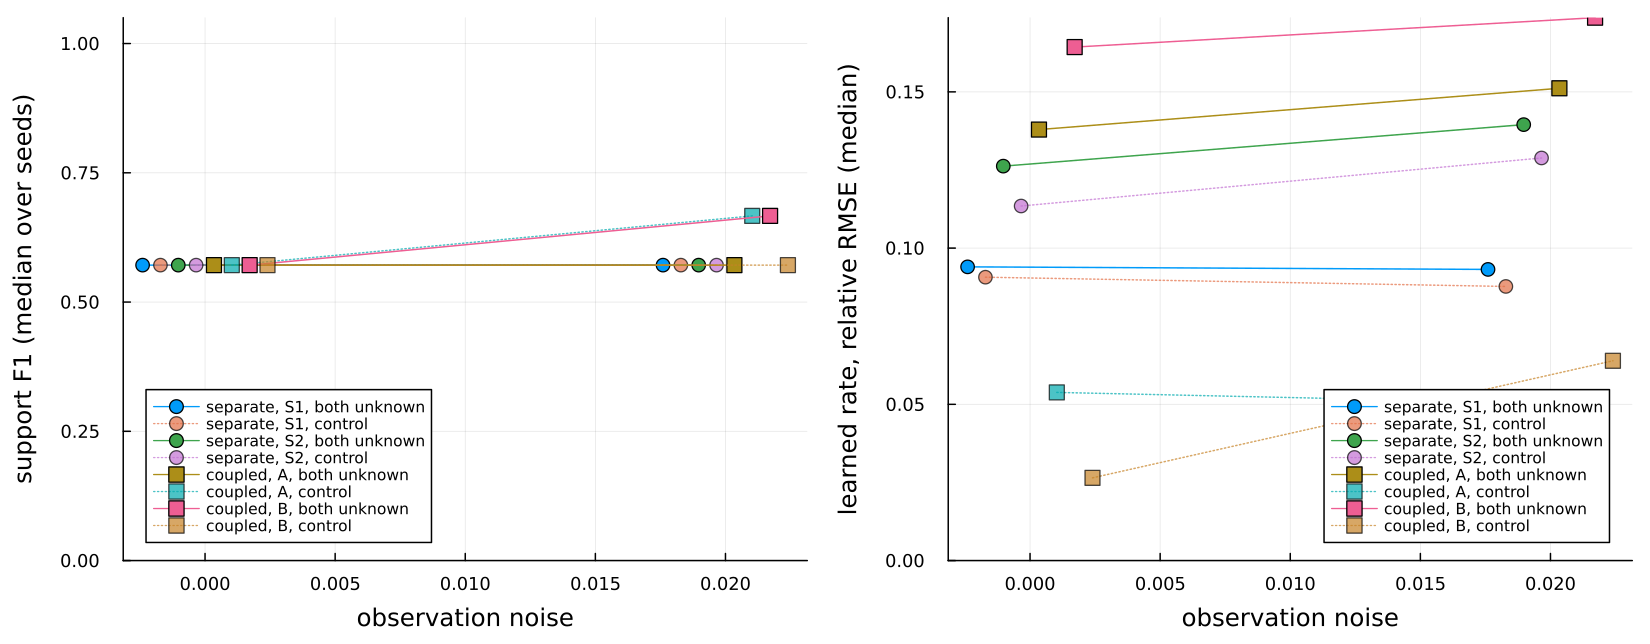
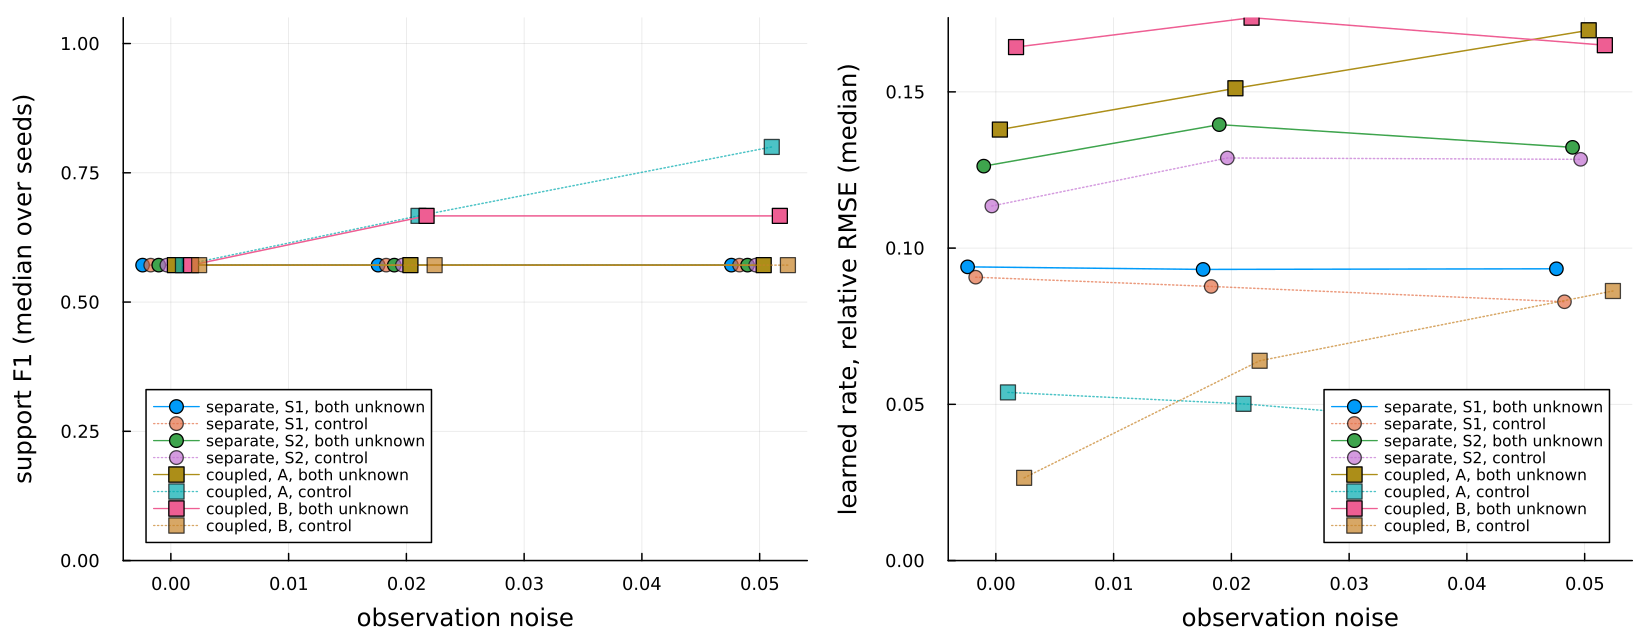
Release 0.16.0: multiple unknown terms
Three-term study rows at noise 0.0, the cross-term threshold set to 0.46
from all 35 multi-unknown runs, version 0.16.0 in Project.toml, the module,
CITATION.cff, README and the changelog, compat entries for the test extras,
and the pre-code analysis moved from dev/ into the review notes.

Claude-Session: https://claude.ai/code/session_01FzTPQ5c3VVUiqX5fWt3oAg

diff --git a/docs/src/benchmarks.md b/docs/src/benchmarks.md
@@ -610,20 +610,64 @@ case (the term whose input is the other unknown node degrades first), minus
 the opposite-sign compensation it also allowed for, which did not occur at
 any noise level.
 
-**Threshold.** The cross-term values clustered by structure with nothing in
+The two-term cross-term values clustered by structure with nothing in
 between: 0.371 to 0.425 for the separate fixture, 0.954 to 0.964 for the
-coupled one, at every noise level. `CROSS_TERM_COLLINEARITY_THRESHOLD` is
-0.69, the midpoint of that gap. Above it, every cell had a learned rate 1.9
-to 6.3 times further from the truth than its control; below it, none was
-more than 1.15 times. Within the coupled cluster the value did not
-distinguish seeds or noise levels (all within 0.01 of each other), so it
-says which structure you have, not how far a particular run drifted. A
+coupled one, at every noise level. Within the coupled cluster the value did
+not distinguish seeds or noise levels (all within 0.01 of each other), so
+it says which structure you have, not how far a particular run drifted. A
 split on the per-run rate degradation alone (learned-rate error above twice
 the control's) does not separate the two clusters, because single runs of
 the separate fixture also cross that ratio; the diagnostic is a structural
-warning, not a per-run error estimate.
+warning, not a per-run error estimate. The threshold itself is set after
+the three-term fixture below, whose values fall inside that gap.
 
-<!-- STUDY RESULTS THREE -->
+### Three terms, noise 0.0
+
+The three-term fixture ran at noise 0.0 only (five seeds, the three-unknown
+run and its three single-unknown controls, 60 rows); its noise 0.02 and
+0.05 cells were dropped when the study reached its four-hour budget, as the
+milestone's plan says to drop first. Without stability selection; with it
+the table is identical.
+
+| fixture | unknown | noise | term | runs | F1 median [IQR] | rate RMSE median | bias median | held-out residual | cross-term median | training s |
+|---|---|---|---|---|---|---|---|---|---|---|
+| three | R1 | 0.0 | R1 | 5/5 | 0.571 [0.571, 0.571] | 0.053 | 0.105 | 0.004 | NA | 232 |
+| three | S1 | 0.0 | S1 | 5/5 | 0.571 [0.571, 0.571] | 0.098 | 0.244 | 0.002 | NA | 229 |
+| three | S1+R1+S2 | 0.0 | R1 | 5/5 | 0.571 [0.571, 0.571] | 0.119 | 0.241 | 0.008 | 0.547 | 358 |
+| three | S1+R1+S2 | 0.0 | S1 | 5/5 | 0.571 [0.571, 0.571] | 0.14 | 0.396 | 0.008 | 0.547 | 358 |
+| three | S1+R1+S2 | 0.0 | S2 | 5/5 | 0.571 [0.333, 0.571] | 0.093 | 0.086 | 0.008 | 0.547 | 358 |
+| three | S2 | 0.0 | S2 | 5/5 | 0.571 [0.571, 0.571] | 0.075 | 0.062 | 0.004 | NA | 228 |
+
+Three terms cost more than two, and in a different way from the coupled
+two-term fixture. No run showed opposite-sign compensation: every learned
+rate is biased in the same direction as its control. But the adjacent pair
+`S1`, `R1` (the decay of `R1` is a Hill term in `S1`, the degradation of
+`S1` a Hill term in `R1`) is biased further high than the controls in every
+run (`S1` median bias 0.396 against 0.244, `R1` 0.241 against 0.105), with
+learned-rate errors 1.4 times (`S1`, 0.140 against 0.098) and 2.2 times
+(`R1`, 0.119 against 0.053) the controls'; the third term `S2`, on the
+separate branch, keeps its rate error at the control's level (0.093 against
+0.075) but loses its support in two of five seeds (F1 0 and 0.333, against
+0.571 in all five controls). The held-out residual is 0.008 against 0.002
+to 0.004 for the controls. Training takes 358 s against 228 to 233 s, 1.6
+times. Per pair, the cross-term collinearity is 0.40 to 0.61 for `S1`–`R1`,
+0.50 to 0.55 for `R1`–`S2` (`R1` produces `S2`), and 0.08 to 0.21 for
+`S1`–`S2`; the largest pair of each run is 0.498 to 0.610.
+
+**Threshold.** Over the 35 multi-unknown runs of the study, every run with
+no measurable cost of the extra term (the 15 runs of the separate fixture)
+had all its pairs at or below 0.425, and every run with a measurable cost
+(the 15 coupled runs and the 5 three-term runs) had at least one pair at or
+above 0.498. `CROSS_TERM_COLLINEARITY_THRESHOLD` is 0.46, the midpoint of
+that gap, so the warning fires on every run in which the study measured a
+cost and on none in which it did not. The size of the cost grows with the
+value (about 1.1 times the control's rate error at 0.4, 1.4 to 2.2 times at
+0.5 to 0.6, 2 to 6 times at 0.96), but five seeds and three fixtures are
+too few to read the value as an error estimate; treat it as a warning that
+the discovered coefficients of that pair need another look. Before the
+three-term rows came in, the two-term fixtures alone would have put the
+threshold at 0.69, the midpoint of their gap; the three-term fixture showed
+a measurable cost below that, which is why the lower value is used.
 
 ## Report fields
 

diff --git a/CHANGELOG.md b/CHANGELOG.md
@@ -10,6 +10,8 @@ and this project adheres to [Semantic Versioning](https://semver.org/spec/v2.0.0
 
 ## [Unreleased]
 
+## [0.16.0] - 2026-09-12
+
 ### Changed (breaking)
 
 - `discover_unknown_term` and `report_unknown_term` are replaced by
@@ -39,7 +41,8 @@ and this project adheres to [Semantic Versioning](https://semver.org/spec/v2.0.0
 - `cross_term_collinearity`, the pairwise cross-term diagnostic: the cosine
   between the trajectory sensitivities to a scale change of each term,
   reported per pair in the result and the report, with a warning above
-  `CROSS_TERM_COLLINEARITY_THRESHOLD`.
+  `CROSS_TERM_COLLINEARITY_THRESHOLD` (0.46, the value below which no run
+  of the study showed a measurable cost of the extra term).
 - Guard rails: two unknown terms on the same node and an unknown production
   term are errors that name the node and the milestone scope.
 - `network_from_reactionsystem(rs; unknown = [...])` marks several reactions
@@ -47,7 +50,13 @@ and this project adheres to [Semantic Versioning](https://semver.org/spec/v2.0.0
 - The multi-term study (`benchmark/multi_term_study.jl`) with the fixtures
   `build_two_term_separate_network`, `build_two_term_coupled_network` and
   `build_three_term_network`, resumable rows in
-  `benchmark/results/multi_term_study.csv`.
+  `benchmark/results/multi_term_study.csv`. Its finding, on the benchmarks
+  page: in 30 two-unknown runs the two terms never compensated for each
+  other; on non-adjacent nodes the second term costs nothing measurable, on
+  adjacent nodes the downstream term's learned rate comes out about 16% low
+  and the cross-term diagnostic flags the case; three terms (noise 0 only)
+  cost more, with the adjacent pair 1.4 and 2.2 times further from the
+  truth and the third term's support lost in two of five seeds.
 
 ## [0.15.0] - 2026-09-08
 
@@ -573,7 +582,8 @@ thresholds, seeds, protocol settings, library construction) is unchanged.
 - `predict_ude` routes through `SciMLBase.ODEProblem` for both AD policies.
 - `RunMetadata` defaults to `BioDynaX.PACKAGE_VERSION`.
 
-[Unreleased]: https://github.com/utkuyilmaz1903/HybridKinetics.jl/compare/v0.15.0...HEAD
+[Unreleased]: https://github.com/utkuyilmaz1903/HybridKinetics.jl/compare/v0.16.0...HEAD
+[0.16.0]: https://github.com/utkuyilmaz1903/HybridKinetics.jl/compare/v0.15.0...v0.16.0
 [0.15.0]: https://github.com/utkuyilmaz1903/HybridKinetics.jl/compare/v0.14.0...v0.15.0
 [0.14.0]: https://github.com/utkuyilmaz1903/BioDynaX.jl/compare/v0.13.0...v0.14.0
 [0.13.0]: https://github.com/utkuyilmaz1903/BioDynaX.jl/compare/v0.12.0...v0.13.0

diff --git a/docs/src/limitations.md b/docs/src/limitations.md
@@ -113,12 +113,17 @@ destruction term. This page collects every caveat in one place.
   15 to 30% low in every run (median 16%), two to six times the single-term
   error, and the noise-free held-out residual doubles. The cross-term
   diagnostic separates the two cases (0.37–0.43 against 0.95–0.96) and warns above
-  `CROSS_TERM_COLLINEARITY_THRESHOLD` = 0.69; it is local to the fit,
+  `CROSS_TERM_COLLINEARITY_THRESHOLD` = 0.46, the value below which no run
+  of the study showed a measurable cost; it is local to the fit,
   concerns the scales only, does not say which of the two terms drifted,
   and is not a structural result.
 - The number of terms is not limited by the code. Two terms were measured
-  in full; the three-term fixture ran on what remained of the study budget
-  (see the benchmarks page for exactly which cells). Beyond that the
+  in full; the three-term fixture ran at noise 0.0 only (its noisy cells
+  were dropped at the study's budget). There, the adjacent pair came out
+  1.4 and 2.2 times further from the truth than the single-term runs and
+  the third term lost its support in two of five seeds, with cross-term
+  values of 0.5 to 0.6, so three terms should be read as a measured but
+  weaker case, not as two terms plus one. Beyond that the
   training time grows with the number of networks and nothing has been
   measured.
 

diff --git a/README.md b/README.md
@@ -4,7 +4,7 @@ Hybrid kinetic models for small biochemical networks: learn the one unknown rate
 
 [![CI](https://github.com/utkuyilmaz1903/HybridKinetics.jl/actions/workflows/ci.yml/badge.svg)](https://github.com/utkuyilmaz1903/HybridKinetics.jl/actions/workflows/ci.yml) [![Docs](https://img.shields.io/badge/docs-dev-blue.svg)](https://utkuyilmaz1903.github.io/HybridKinetics.jl/stable/) [![License: MIT](https://img.shields.io/badge/License-MIT-yellow.svg)](LICENSE) [![Julia](https://img.shields.io/badge/julia-%E2%89%A5%201.10-9558B2.svg)](https://julialang.org) [![ColPrac: Contributor's Guide on Collaborative Practices for Community Packages](https://img.shields.io/badge/ColPrac-Contributor%27s%20Guide-blueviolet)](https://github.com/SciML/ColPrac) [![SciML Code Style](https://img.shields.io/static/v1?label=code%20style&message=SciML&color=9558b2&labelColor=389826)](https://github.com/SciML/SciMLStyle)
 
-Version 0.15. The public API may still change before 1.0; see [CHANGELOG.md](CHANGELOG.md).
+Version 0.16. The public API may still change before 1.0; see [CHANGELOG.md](CHANGELOG.md).
 
 ## What HybridKinetics does
 

diff --git a/docs/src/concepts.md b/docs/src/concepts.md
@@ -192,6 +192,9 @@ unknown node came out biased low in all fifteen runs (15 to 30%, median
 16%), with a rate error 2 to 6 times the control's, and the cross-term
 collinearity was 0.95 to 0.96 in every run. No run at any noise level
 showed the two terms trading against each other with opposite signs. The
+three-term fixture (noise 0 only) cost more: its adjacent pair came out 1.4
+and 2.2 times further from the truth than the controls and the third term
+lost its support in two of five seeds, at cross-term values of 0.5 to 0.6. The
 tables and the figure are on the [Benchmarks](benchmarks.md#Two-unknown-terms)
 page.
 
